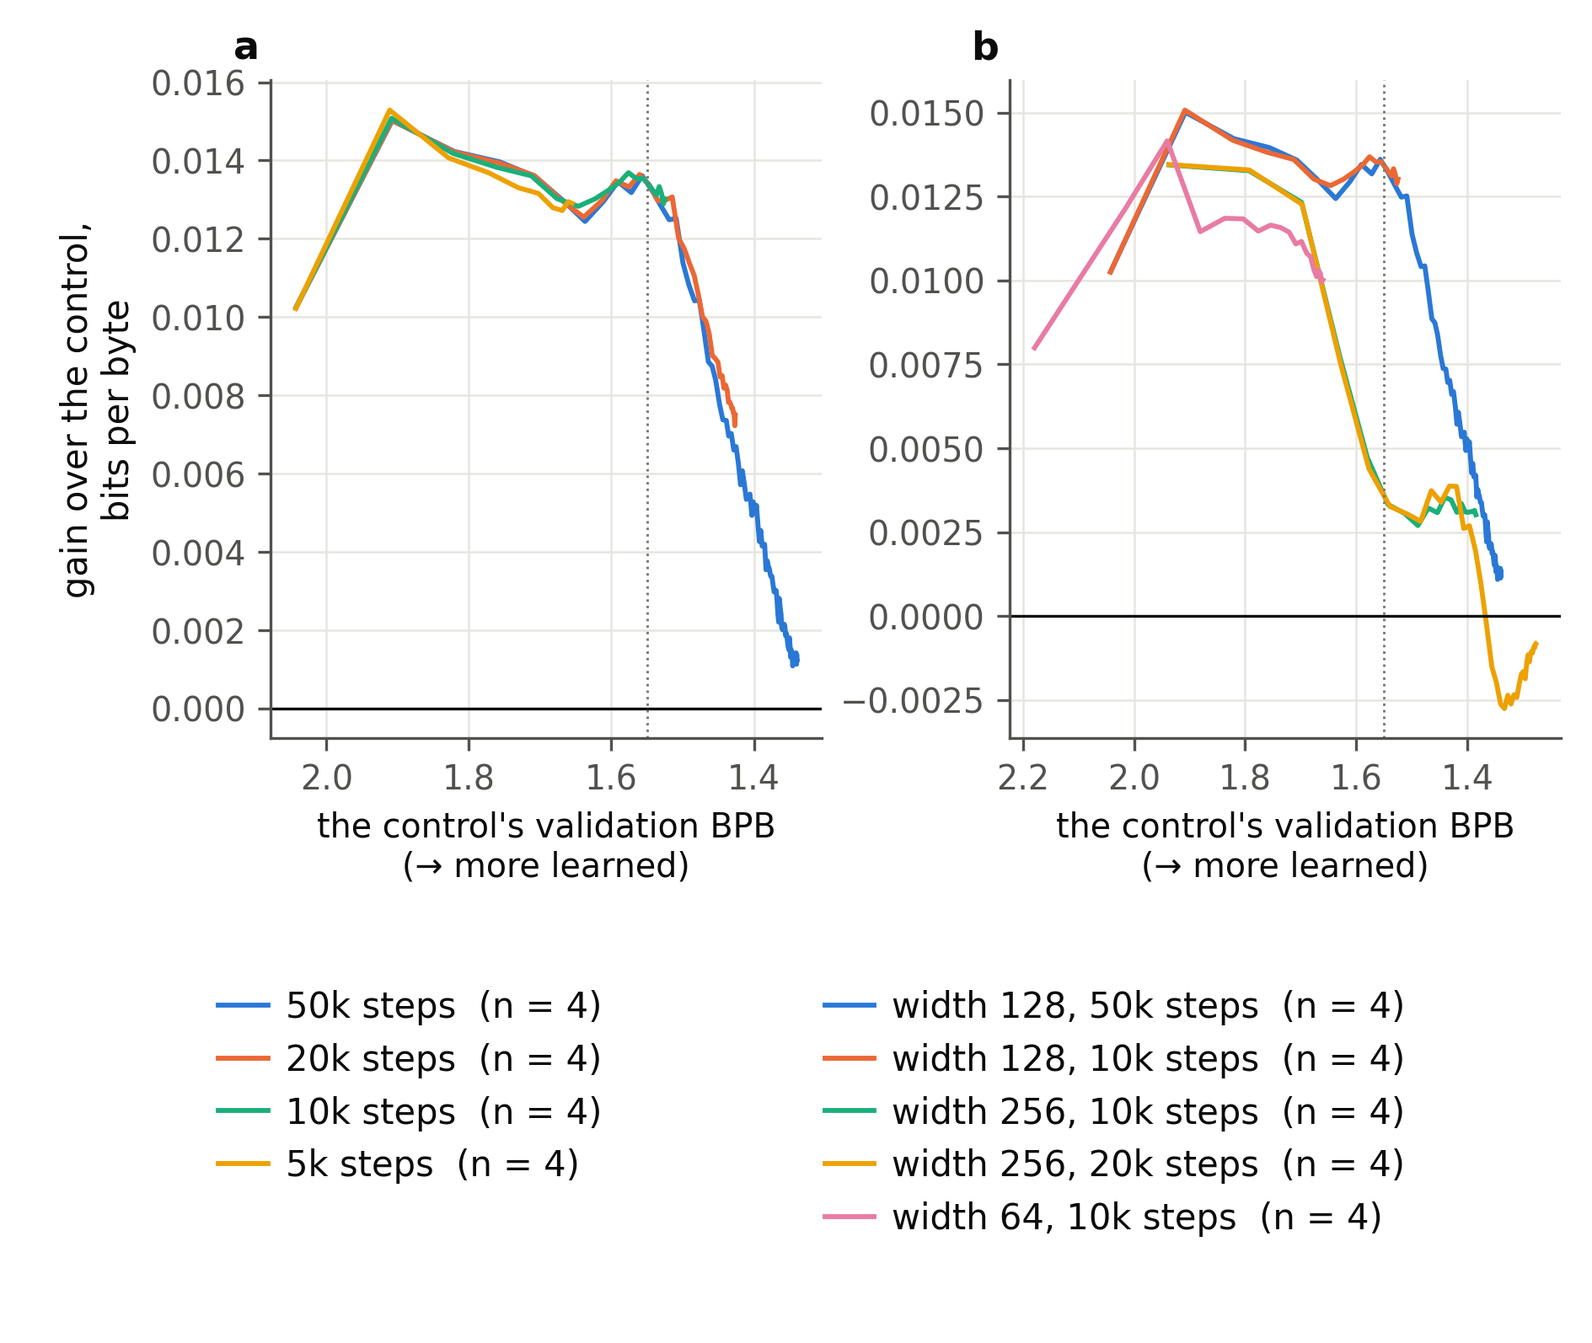
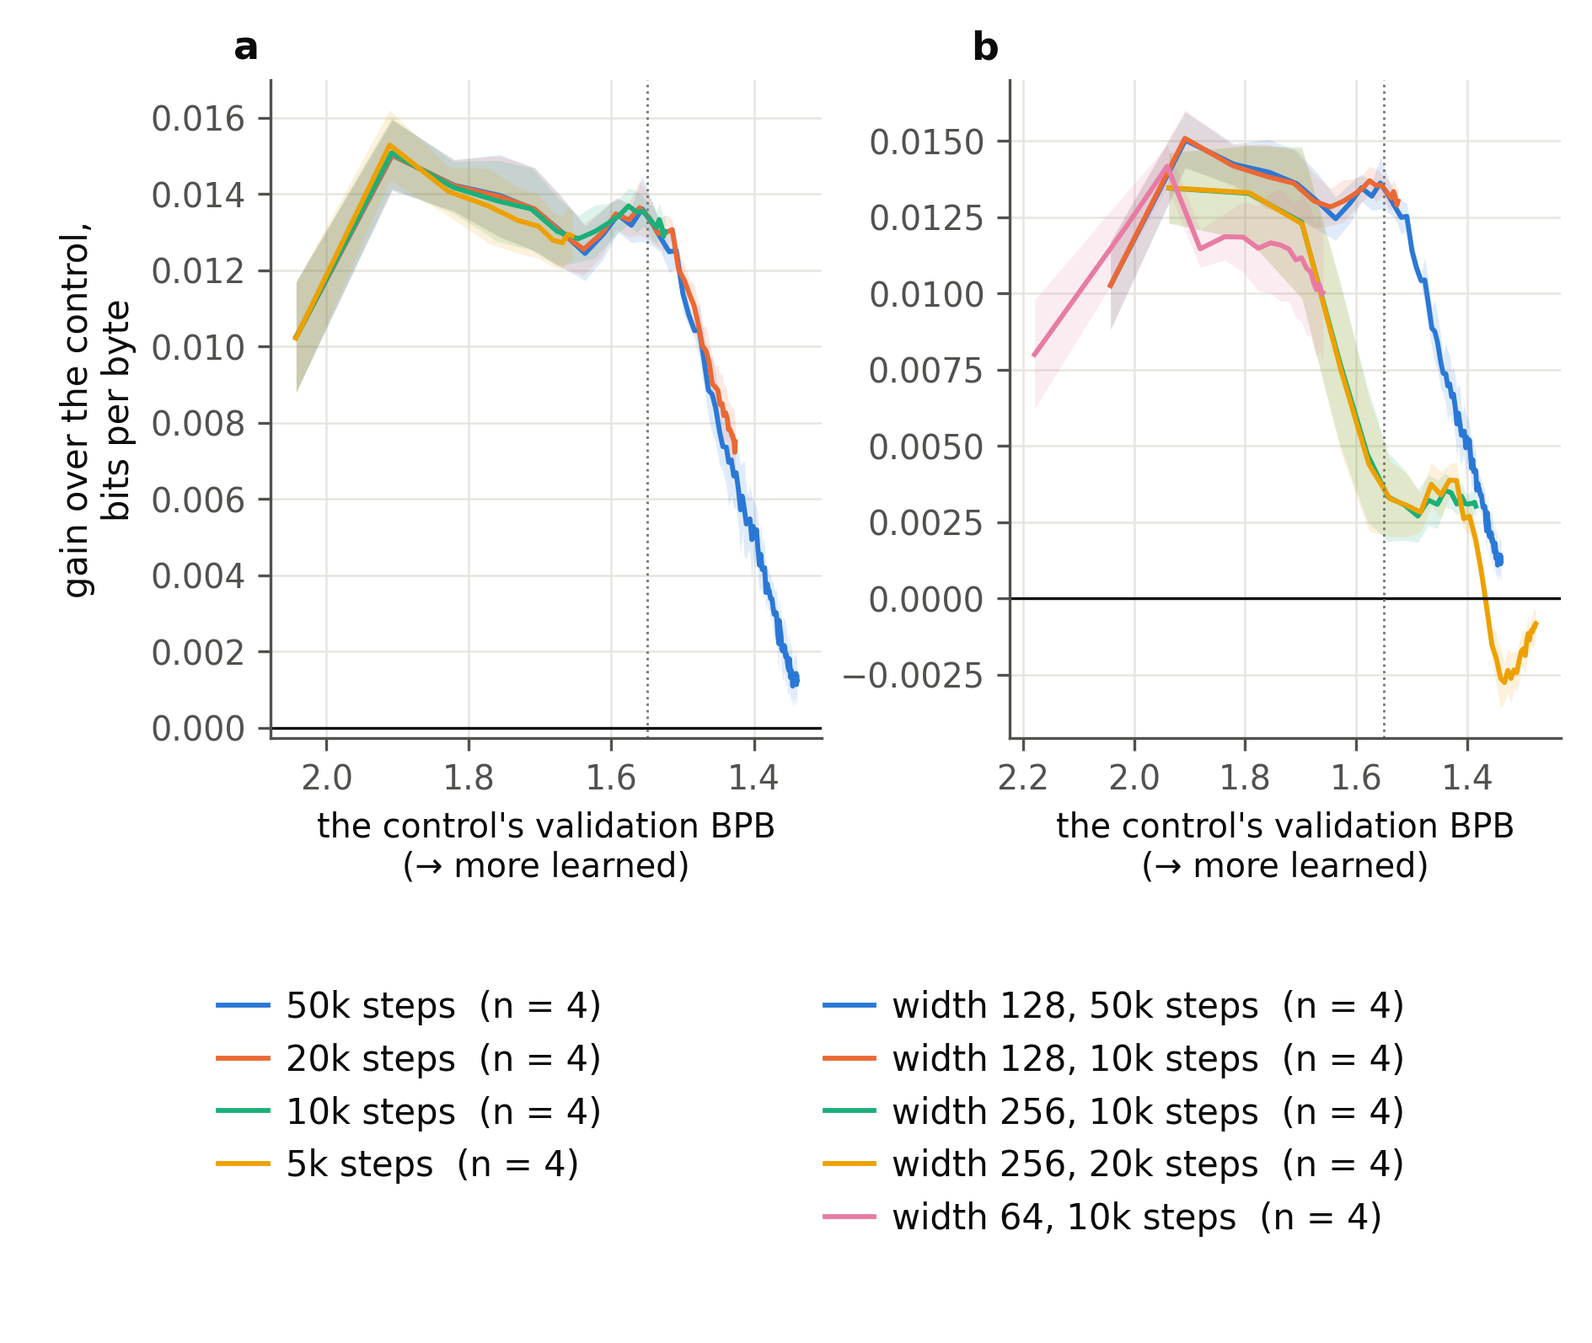
The text's figures: the law with five conditions and bands, Figure 3.1 in two, and where the gain sits
What changed for the thesis (journey §33.158):
- exports/figures/{uk,en}/fig_law_ukrainian.png: all five Ukrainian conditions (151M at 50k
  and 5k; 10k on ~38M, ~7.6M and ~1.5M), each with a band of the standard error over seeds;
  the tokenizers' panel with bands; fig_law_english.png with bands.
- fig_tokenizer_budget.png and fig_tokenizer_width.png: Figure 3.1's lines in two, width 128
  apart from the wider models; the second adds width 1024 at full training. fig_tokenizer.png
  is unchanged.
- fig_tokenizer_by_word.png: where the 5M model's lead at full training sits, by word class
  and training frequency, validation and test (§33.156).
- DIRECTIONS: the figures answered; nothing without the GPU is left in the text's list.

diff --git a/scripts/analysis/thesis_figures.py b/scripts/analysis/thesis_figures.py
@@ -12,13 +12,21 @@ controls and contrasts in grey.
   fig_q2_end        each feature against its same-shape null, end of training
   fig_early_help    a feature's gain over its null along training
   fig_law_ukrainian Ukrainian case's gain against the null's validation BPB: by data
-                    and budget, and by tokenizer
-  fig_law_english   English part of speech's: by schedule, and by model width
+                    and budget (all five conditions), and by tokenizer; bands, the
+                    standard error over seeds
+  fig_law_english   English part of speech's: by schedule, and by model width, with bands
   fig_tokenizer     BPE 17k with endings apart against BPE 17k, null against null,
                     along training and against the reference null's BPB, with
                     Unigram 17k for contrast; width 1024's runs, with the 1,000-step
                     warm-up it needs (journey §33.132), are all the second machine's,
                     and its legend key says so; so is width 512 at full training
+  fig_tokenizer_budget  the same lead at width 128 alone: the data and the budgets, with
+                    Unigram 17k (Figure 3.1's lines, split in two)
+  fig_tokenizer_width   the same lead at widths 256, 512 and 1024, with width 1024 at full
+                    training, and width 128 at 10k for reference
+  fig_tokenizer_by_word where the 5M model's lead at full training sits, by word, on
+                    validation and on test: from the `tokenizer_by_word` audit record
+                    (journey §33.156), the latest one
 
 A figure is drawn only if every run it is planned to show exists (as in
 demo_figures.py): one that silently dropped points would read as another result.
@@ -106,7 +114,10 @@ TXT = {
                   ('англійська: словозміна', EN('mconst'), EN('mfeatlex'))],
         'law': [  # panel: reference null BPB, conditions
             (1.10, [('151 млн токенів, 50 тис. кроків', UK('mconst'), UK('ucase')),
-                    ('38 млн токенів, 10 тис. кроків', U5('mconst', '_st10k'), U5('ucase', '_st10k'))]),
+                    ('151 млн токенів, 5 тис. кроків', UK('mconst', '0.2', '_st5k'), UK('ucase', '0.2', '_st5k')),
+                    ('38 млн токенів, 10 тис. кроків', U5('mconst', '_st10k'), U5('ucase', '_st10k')),
+                    ('7,6 млн токенів, 10 тис. кроків', UK('mconst', '0.01', '_st10k'), UK('ucase', '0.01', '_st10k')),
+                    ('1,5 млн токенів, 10 тис. кроків', UK('mconst', '0.002', '_st10k'), UK('ucase', '0.002', '_st10k'))]),
             (1.55, [('50 тис. кроків', EN('mconst'), EN('pos')),
                     ('20 тис. кроків', EN('mconst') + '_st20k', EN('pos') + '_st20k'),
                     ('10 тис. кроків', EN('mconst') + '_st10k', EN('pos') + '_st10k'),
@@ -135,6 +146,13 @@ TXT = {
         'tok_widths': [('ширина 128', '-'), ('ширина 256', '-.'), ('ширина 512', ':'),
                        ('ширина 1024 (друга машина)', LONG_DASH)],
         'unigram': 'Unigram 17k',
+        'tok_1024_full': '151 млн токенів, 50 тис. кроків, ширина 1024',
+        'by_word': {'cats': [('cut 1-99', 'поділені правилом, 1–99 разів'), ('cut 100-9,999', 'поділені, 100–9 999 разів'),
+                             ('cut 10,000+', 'поділені, 10 000 разів і більше'), ('cut unseen', 'поділені, не бачені'),
+                             ('uncut 1-99', 'не поділені, 1–99 разів'), ('uncut 100-9,999', 'не поділені, 100–9 999 разів'),
+                             ('uncut 10,000+', 'не поділені, 10 000 разів і більше'), ('uncut unseen', 'не поділені, не бачені'),
+                             ('non-word', 'не слова')],
+                    'splits': ('валідація', 'тест'), 'x': 'перевага над BPE 17k, біти на байт'},
     },
     'en': {
         'gain': 'gain over the control,\nbits per byte',
@@ -172,9 +190,17 @@ TXT = {
         'tok_widths': [('width 128', '-'), ('width 256', '-.'), ('width 512', ':'),
                        ('width 1024 (second machine)', LONG_DASH)],
         'unigram': 'Unigram 17k',
+        'tok_1024_full': '151M tokens, 50k steps, width 1024',
+        'by_word': {'cats': [('cut 1-99', 'cut by the rule, seen 1–99 times'), ('cut 100-9,999', 'cut, 100–9,999 times'),
+                             ('cut 10,000+', 'cut, 10,000 times or more'), ('cut unseen', 'cut, unseen'),
+                             ('uncut 1-99', 'not cut, 1–99 times'), ('uncut 100-9,999', 'not cut, 100–9,999 times'),
+                             ('uncut 10,000+', 'not cut, 10,000 times or more'), ('uncut unseen', 'not cut, unseen'),
+                             ('non-word', 'not words')],
+                    'splits': ('validation', 'test'), 'x': 'lead over BPE 17k, bits per byte'},
     },
 }
-_EN_LAW_NAMES = [['151M tokens, 50k steps', '38M tokens, 10k steps'],
+_EN_LAW_NAMES = [['151M tokens, 50k steps', '151M tokens, 5k steps', '38M tokens, 10k steps', '7.6M tokens, 10k steps',
+                  '1.5M tokens, 10k steps'],
                  ['50k steps', '20k steps', '10k steps', '5k steps'],
                  ['width 128, 50k steps', 'width 128, 10k steps', 'width 256, 10k steps', 'width 256, 20k steps',
                   'width 64, 10k steps'],
@@ -195,7 +221,24 @@ def needs(lang):
     for _, fr, x, _, _ in t['tok']:
         tok += [TOK('mconst', 'bpe_uk_17k', fr, x), TOK('mconst', 'bpeend_uk_17k', fr, x)]
     out['fig_tokenizer'] = tok + [TOK('mconst', 'unigram_uk_17k')]
+    out['fig_tokenizer_budget'] = [x for _, fr, xx, _, _ in tok_budget(t) for x in
+                                   (TOK('mconst', 'bpe_uk_17k', fr, xx), TOK('mconst', 'bpeend_uk_17k', fr, xx))] \
+        + [TOK('mconst', 'unigram_uk_17k')]
+    out['fig_tokenizer_width'] = [x for _, fr, xx, _, _ in tok_width(t) for x in
+                                  (TOK('mconst', 'bpe_uk_17k', fr, xx), TOK('mconst', 'bpeend_uk_17k', fr, xx))]
+    out['fig_tokenizer_by_word'] = []          # from an audit record, not runs
     return out
+
+
+def tok_budget(t):
+    """Figure 3.1's lines at width 128: the data and the budgets."""
+    return [row for row in t['tok'] if row[4] == '-']
+
+
+def tok_width(t):
+    """Figure 3.1's lines of the wider models, width 1024 at full training added, and width 128 at 10k."""
+    ref = [row for row in t['tok'] if row[4] == '-' and row[2] == '_st10k']
+    return ref + [row for row in t['tok'] if row[4] != '-'] + [(t['tok_1024_full'], '0.2', '_wu1000_w1024', 0, LONG_DASH)]
 
 
 _NAMED = set()
@@ -233,10 +276,11 @@ def early(R, base, feat):
 
 
 def law(R, null, feat):
-    """[(null BPB, gain)] averaged over the seeds, to each run's best step (the law's axis); the seeds."""
+    """[(null BPB, gain, standard error)] averaged over the seeds, to each run's best step (the law's
+    axis); the seeds."""
     pts, seeds, left = runs.gain_curve(R, null, feat)
     named(f'{feat} against {null}', left)
-    return [(b, g) for _, b, g, _ in pts], len(seeds)
+    return [(b, g, ms([x for _, x in v])[1]) for _, b, g, v in pts], len(seeds)
 
 
 def lead(R, ref, other):
@@ -308,7 +352,10 @@ def _law(R, t, path, panels, anchors):
             pts, ns = law(R, n, f)
             if not pts:
                 continue
-            ax.plot([a for a, _ in pts], [b for _, b in pts], '-', lw=1.4, color=SERIES[k], label=f'{name}  (n = {ns})')
+            xs, m, e = [p[0] for p in pts], [p[1] for p in pts], [p[2] for p in pts]
+            ax.plot(xs, m, '-', lw=1.4, color=SERIES[k], label=f'{name}  (n = {ns})')
+            ax.fill_between(xs, [u - v for u, v in zip(m, e)], [u + v for u, v in zip(m, e)], color=SERIES[k],
+                            alpha=0.14, lw=0)
         ax.axhline(0, color=INK, lw=0.8)
         ax.axvline(ref, color=GREY, lw=0.7, ls=':')
         ax.invert_xaxis()
@@ -332,24 +379,25 @@ def fig_law_english(R, t, path):
     _law(R, t, path, [t['law'][1], t['law'][2]], anchors=(-0.12, -0.36))
 
 
-def fig_tokenizer(R, t, path):
-    fig, (a, b) = plt.subplots(1, 2, figsize=(WIDTH, 11.0 * CM), sharey=True)
-    for name, fr, x, k, ls in t['tok']:
+def _tokenizer(R, t, path, rows, unigram, keys, widths, height=11.0):
+    fig, (a, b) = plt.subplots(1, 2, figsize=(WIDTH, height * CM), sharey=True)
+    for name, fr, x, k, ls in rows:
         pts = lead(R, TOK('mconst', 'bpe_uk_17k', fr, x), TOK('mconst', 'bpeend_uk_17k', fr, x))
         st_, rb, m, e = [p[0] for p in pts], [p[1] for p in pts], [p[2] for p in pts], [p[3] for p in pts]
         for ax, xs in ((a, st_), (b, rb)):
             ax.plot(xs, m, linestyle=ls, color=SERIES[k], lw=1.5)
             ax.fill_between(xs, [u - v for u, v in zip(m, e)], [u + v for u, v in zip(m, e)], color=SERIES[k], alpha=0.14, lw=0)
-    pts = lead(R, TOK('mconst', 'bpe_uk_17k'), TOK('mconst', 'unigram_uk_17k'))
-    st_, rb, m, e = [p[0] for p in pts], [p[1] for p in pts], [p[2] for p in pts], [p[3] for p in pts]
-    for ax, xs in ((a, st_), (b, rb)):
-        ax.plot(xs, m, '--', color=GREY, lw=1.4)
-        ax.fill_between(xs, [u - v for u, v in zip(m, e)], [u + v for u, v in zip(m, e)], color=GREY, alpha=0.14, lw=0)
-    # the contrast is labelled on its line, not in the legend (n = 4 as well): past its end and under
-    # the zero line, where nothing else runs (beside its end run the width-1024 lines, at step 2,000
-    # the width-512 ones)
-    a.annotate(t['unigram'], xy=(st_[-1], m[-1]), xytext=(4, -4), textcoords='offset points', color=MUTED,
-               fontsize=9.5, va='top', ha='left')
+    if unigram:
+        pts = lead(R, TOK('mconst', 'bpe_uk_17k'), TOK('mconst', 'unigram_uk_17k'))
+        st_, rb, m, e = [p[0] for p in pts], [p[1] for p in pts], [p[2] for p in pts], [p[3] for p in pts]
+        for ax, xs in ((a, st_), (b, rb)):
+            ax.plot(xs, m, '--', color=GREY, lw=1.4)
+            ax.fill_between(xs, [u - v for u, v in zip(m, e)], [u + v for u, v in zip(m, e)], color=GREY, alpha=0.14, lw=0)
+        # the contrast is labelled on its line, not in the legend (n = 4 as well): past its end and under
+        # the zero line, where nothing else runs (beside its end run the width-1024 lines, at step 2,000
+        # the width-512 ones)
+        a.annotate(t['unigram'], xy=(st_[-1], m[-1]), xytext=(4, -4), textcoords='offset points', color=MUTED,
+                   fontsize=9.5, va='top', ha='left')
     step_axis(a, t['lang'], 50000)
     b.invert_xaxis()
     numbers(b, t['lang'], 'x')
@@ -366,10 +414,12 @@ def fig_tokenizer(R, t, path):
     # (nine lines' full names overflowed the figure in Ukrainian); blank entries keep each key in its
     # own column, which the legend fills top to bottom
     from matplotlib.lines import Line2D
-    colours = [Line2D([], [], color=SERIES[k], lw=1.5) for _, k in t['tok_keys']]
-    widths = [Line2D([], [], color=INK, lw=1.5, ls=ls) for _, ls in t['tok_widths']]
-    blank = [Line2D([], [], lw=0)] * (len(widths) - len(colours))
-    fig.legend(colours + blank + widths, [n for n, _ in t['tok_keys']] + [''] * len(blank) + [n for n, _ in t['tok_widths']],
+    colours = [Line2D([], [], color=SERIES[k], lw=1.5) for _, k in keys]
+    lines = [Line2D([], [], color=INK, lw=1.5, ls=ls) for _, ls in widths]
+    blank = [Line2D([], [], lw=0)] * abs(len(lines) - len(colours))
+    left_, right_ = (colours, lines + blank) if len(colours) >= len(lines) else (colours + blank, lines)
+    fig.legend(left_ + right_, [n for n, _ in keys] + [''] * (len(left_) - len(keys)) + [n for n, _ in widths]
+               + [''] * (len(right_) - len(widths)),
                title=t['tok_title'], title_fontsize=9, loc='lower center', ncol=2, frameon=False, fontsize=8.8,
                bbox_to_anchor=(0.5, 0.0), alignment='left')
     fig.tight_layout(rect=(0, 0.25, 1, 1), w_pad=1.2)
@@ -377,8 +427,56 @@ def fig_tokenizer(R, t, path):
     plt.close(fig)
 
 
+def fig_tokenizer(R, t, path):
+    _tokenizer(R, t, path, t['tok'], True, t['tok_keys'], t['tok_widths'])
+
+
+def fig_tokenizer_budget(R, t, path):
+    keys = [kk for kk in t['tok_keys'] if kk[1] in {row[3] for row in tok_budget(t)}]
+    _tokenizer(R, t, path, tok_budget(t), True, keys, t['tok_widths'][:1], height=9.5)
+
+
+def fig_tokenizer_width(R, t, path):
+    _tokenizer(R, t, path, tok_width(t), False, t['tok_keys'], t['tok_widths'])
+
+
+def fig_tokenizer_by_word(R, t, path):
+    """Where the 5M model's lead at full training sits, by word (journey §33.156), validation and test."""
+    import glob
+    import json
+    recs = sorted(glob.glob(os.path.join(runs.AUDITS, 'tokenizer_by_word_*.json')))
+    if not recs:
+        print('  NOT DRAWN fig_tokenizer_by_word: no tokenizer_by_word record')
+        return
+    rep = json.load(open(recs[-1]))['results']['report']
+    w = t['by_word']
+    cats = w['cats']
+    fig, ax = plt.subplots(figsize=(WIDTH, 10.5 * CM))
+    import numpy as np
+    y = np.arange(len(cats))[::-1]
+    for j, (split, colour) in enumerate((('validation', SERIES[0]), ('test', SERIES[1]))):
+        m = [rep[split]['by'][k]['mean'] for k, _ in cats]
+        e = [rep[split]['by'][k]['se'] for k, _ in cats]
+        ax.barh(y + (0.2 if j == 0 else -0.2), m, height=0.38, color=colour, xerr=e, label=w['splits'][j],
+                error_kw={'elinewidth': 0.8, 'ecolor': INK, 'capsize': 0}, edgecolor='white', linewidth=0.6)
+    ax.set_yticks(y)
+    ax.set_yticklabels([n for _, n in cats])
+    ax.axvline(0, color=INK, lw=0.8)
+    ax.grid(axis='x', color='#e6e5e0', lw=0.6)
+    ax.set_axisbelow(True)
+    numbers(ax, t['lang'], 'x')
+    from matplotlib.ticker import MultipleLocator
+    ax.xaxis.set_major_locator(MultipleLocator(0.002))
+    ax.set_xlabel(w['x'])
+    ax.legend(frameon=False, loc='center right', fontsize=9.5)       # the counts are explained in the caption
+    fig.tight_layout()
+    fig.savefig(path)
+    plt.close(fig)
+
+
 FIGS = {'fig_q2_end': fig_q2_end, 'fig_early_help': fig_early_help, 'fig_law_ukrainian': fig_law_ukrainian,
-        'fig_law_english': fig_law_english, 'fig_tokenizer': fig_tokenizer}
+        'fig_law_english': fig_law_english, 'fig_tokenizer': fig_tokenizer, 'fig_tokenizer_budget': fig_tokenizer_budget,
+        'fig_tokenizer_width': fig_tokenizer_width, 'fig_tokenizer_by_word': fig_tokenizer_by_word}
 
 
 def main():

diff --git a/docs/record/journey/README.md b/docs/record/journey/README.md
@@ -97,6 +97,7 @@ Where each question of the thesis was worked on, across the parts. A section may
 - [§33.155](15_the_list_of_19_october.md#33155-item-4-the-gain-is-worth-about-15-more-parameters-or-17-more-training-steps) — the gain is worth about 15% more parameters, or 17% more training steps
 - [§33.156](15_the_list_of_19_october.md#33156-item-3-four-fifths-of-the-tokenizers-gain-sits-in-the-words-the-rule-cuts) — four fifths of the tokenizer's gain sits in the words the rule cuts
 - [§33.157](15_the_list_of_19_october.md#33157-the-probes-at-layer-0-the-lead-is-not-in-the-endings-token-the-first-layer-builds-it) — the probes at layer 0: the lead is not in the ending's token; the first layer builds it
+- [§33.158](15_the_list_of_19_october.md#33158-the-texts-figures-the-law-with-five-conditions-and-bands-figure-31-in-two-and-where-the-gain-sits) — the text's figures: the law with five conditions and bands, Figure 3.1 in two, where the gain sits
 - [§33.141](15_the_list_of_19_october.md#33141-item-1-without-repeating-the-text-the-gain-at-width-1024-is-smaller-and-still-rising) — without repeating the text the gain at width 1024 is smaller, and still rising
 - [§33.142](15_the_list_of_19_october.md#33142-full-training-at-30m-parameters-the-tokenizers-gain-is-smaller-and-lasts-case-stays-within-the-bound-english-gains-nothing) — full training at 30M parameters: the tokenizer's gain is smaller and lasts, case stays within the bound, English gains nothing
 
@@ -493,6 +494,7 @@ Where each question of the thesis was worked on, across the parts. A section may
 - [33.155 Item 4: the gain is worth about 15% more parameters, or 17% more training steps](15_the_list_of_19_october.md#33155-item-4-the-gain-is-worth-about-15-more-parameters-or-17-more-training-steps)
 - [33.156 Item 3: four fifths of the tokenizer's gain sits in the words the rule cuts](15_the_list_of_19_october.md#33156-item-3-four-fifths-of-the-tokenizers-gain-sits-in-the-words-the-rule-cuts)
 - [33.157 The probes at layer 0: the lead is not in the ending's token; the first layer builds it](15_the_list_of_19_october.md#33157-the-probes-at-layer-0-the-lead-is-not-in-the-endings-token-the-first-layer-builds-it)
+- [33.158 The text's figures: the law with five conditions and bands, Figure 3.1 in two, and where the gain sits](15_the_list_of_19_october.md#33158-the-texts-figures-the-law-with-five-conditions-and-bands-figure-31-in-two-and-where-the-gain-sits)
 
 ### Appendices
 

diff --git a/docs/record/journey/15_the_list_of_19_october.md b/docs/record/journey/15_the_list_of_19_october.md
@@ -2516,3 +2516,23 @@ record made before.
 1. **The lead is built, not given.** It is not in the ending's token but in the first layer, which joins the ending
    to its stem: the model reads an ending it can see apart.
 2. **This fits where the gain sits** (§33.156): in the words the rule cuts, as better predictions of their endings.
+
+### 33.158 The text's figures: the law with five conditions and bands, Figure 3.1 in two, and where the gain sits
+
+The text's list of 30 October asks for three figures. `scripts/analysis/thesis_figures.py` draws them in Ukrainian and
+in English into `exports/figures/{uk,en}/`. The figures the text already holds keep their names.
+- **`fig_law_ukrainian`:** the Ukrainian law with all five conditions, each with a band of the standard error over
+  seeds. The five are 151M tokens at 50k and at 5k, and 10k on ~38M, ~7.6M and ~1.5M. Panel б keeps the six
+  tokenizers, now with bands. **`fig_law_english`** has its bands too.
+- **`fig_tokenizer_budget` and `fig_tokenizer_width`:** Figure 3.1's lines in two figures. The first holds width 128,
+  its data and budgets, with Unigram 17k. The second holds widths 256, 512 and 1024 with width 128 at 10k for
+  reference, and adds width 1024 at full training (§33.149). `fig_tokenizer` itself is unchanged.
+- **`fig_tokenizer_by_word`:** where the 5M model's lead at full training sits (§33.156). It reads the latest
+  `tokenizer_by_word` record: each word class and frequency band, validation and test, with the standard error over
+  seeds.
+
+Each was looked at in both languages before it went to `exports/`. One fix: the English bars' axis crowded its labels,
+and now steps by 0.002.
+
+**What it changes for the thesis:** the figures the text asked for are drawn. Their captions are the text's; what
+each needs is in the channel.

diff --git a/docs/DIRECTIONS.md b/docs/DIRECTIONS.md
@@ -75,7 +75,8 @@ articles differ by 2.5 standard errors.
 **Answered** (§33.157): the probes at layer 0. The lead is not in the ending's token (level at layer 0); the first
 layer builds it (+3.7, +2.9, +6.0 points on case, number, gender).
 
-**Without the GPU:** the figures — the law with all five conditions and bands, Figure 3.1 in two, a figure for item 3.
+**Answered** (§33.158): the figures — the law with all five conditions and bands, Figure 3.1 in two, and where the
+gain sits. Nothing without the GPU is left in the text's list.
 
 **Optional**, if hours remain:
 - what case's +0.0015 at 30M is made of: 8 runs, ~10.8 h;
